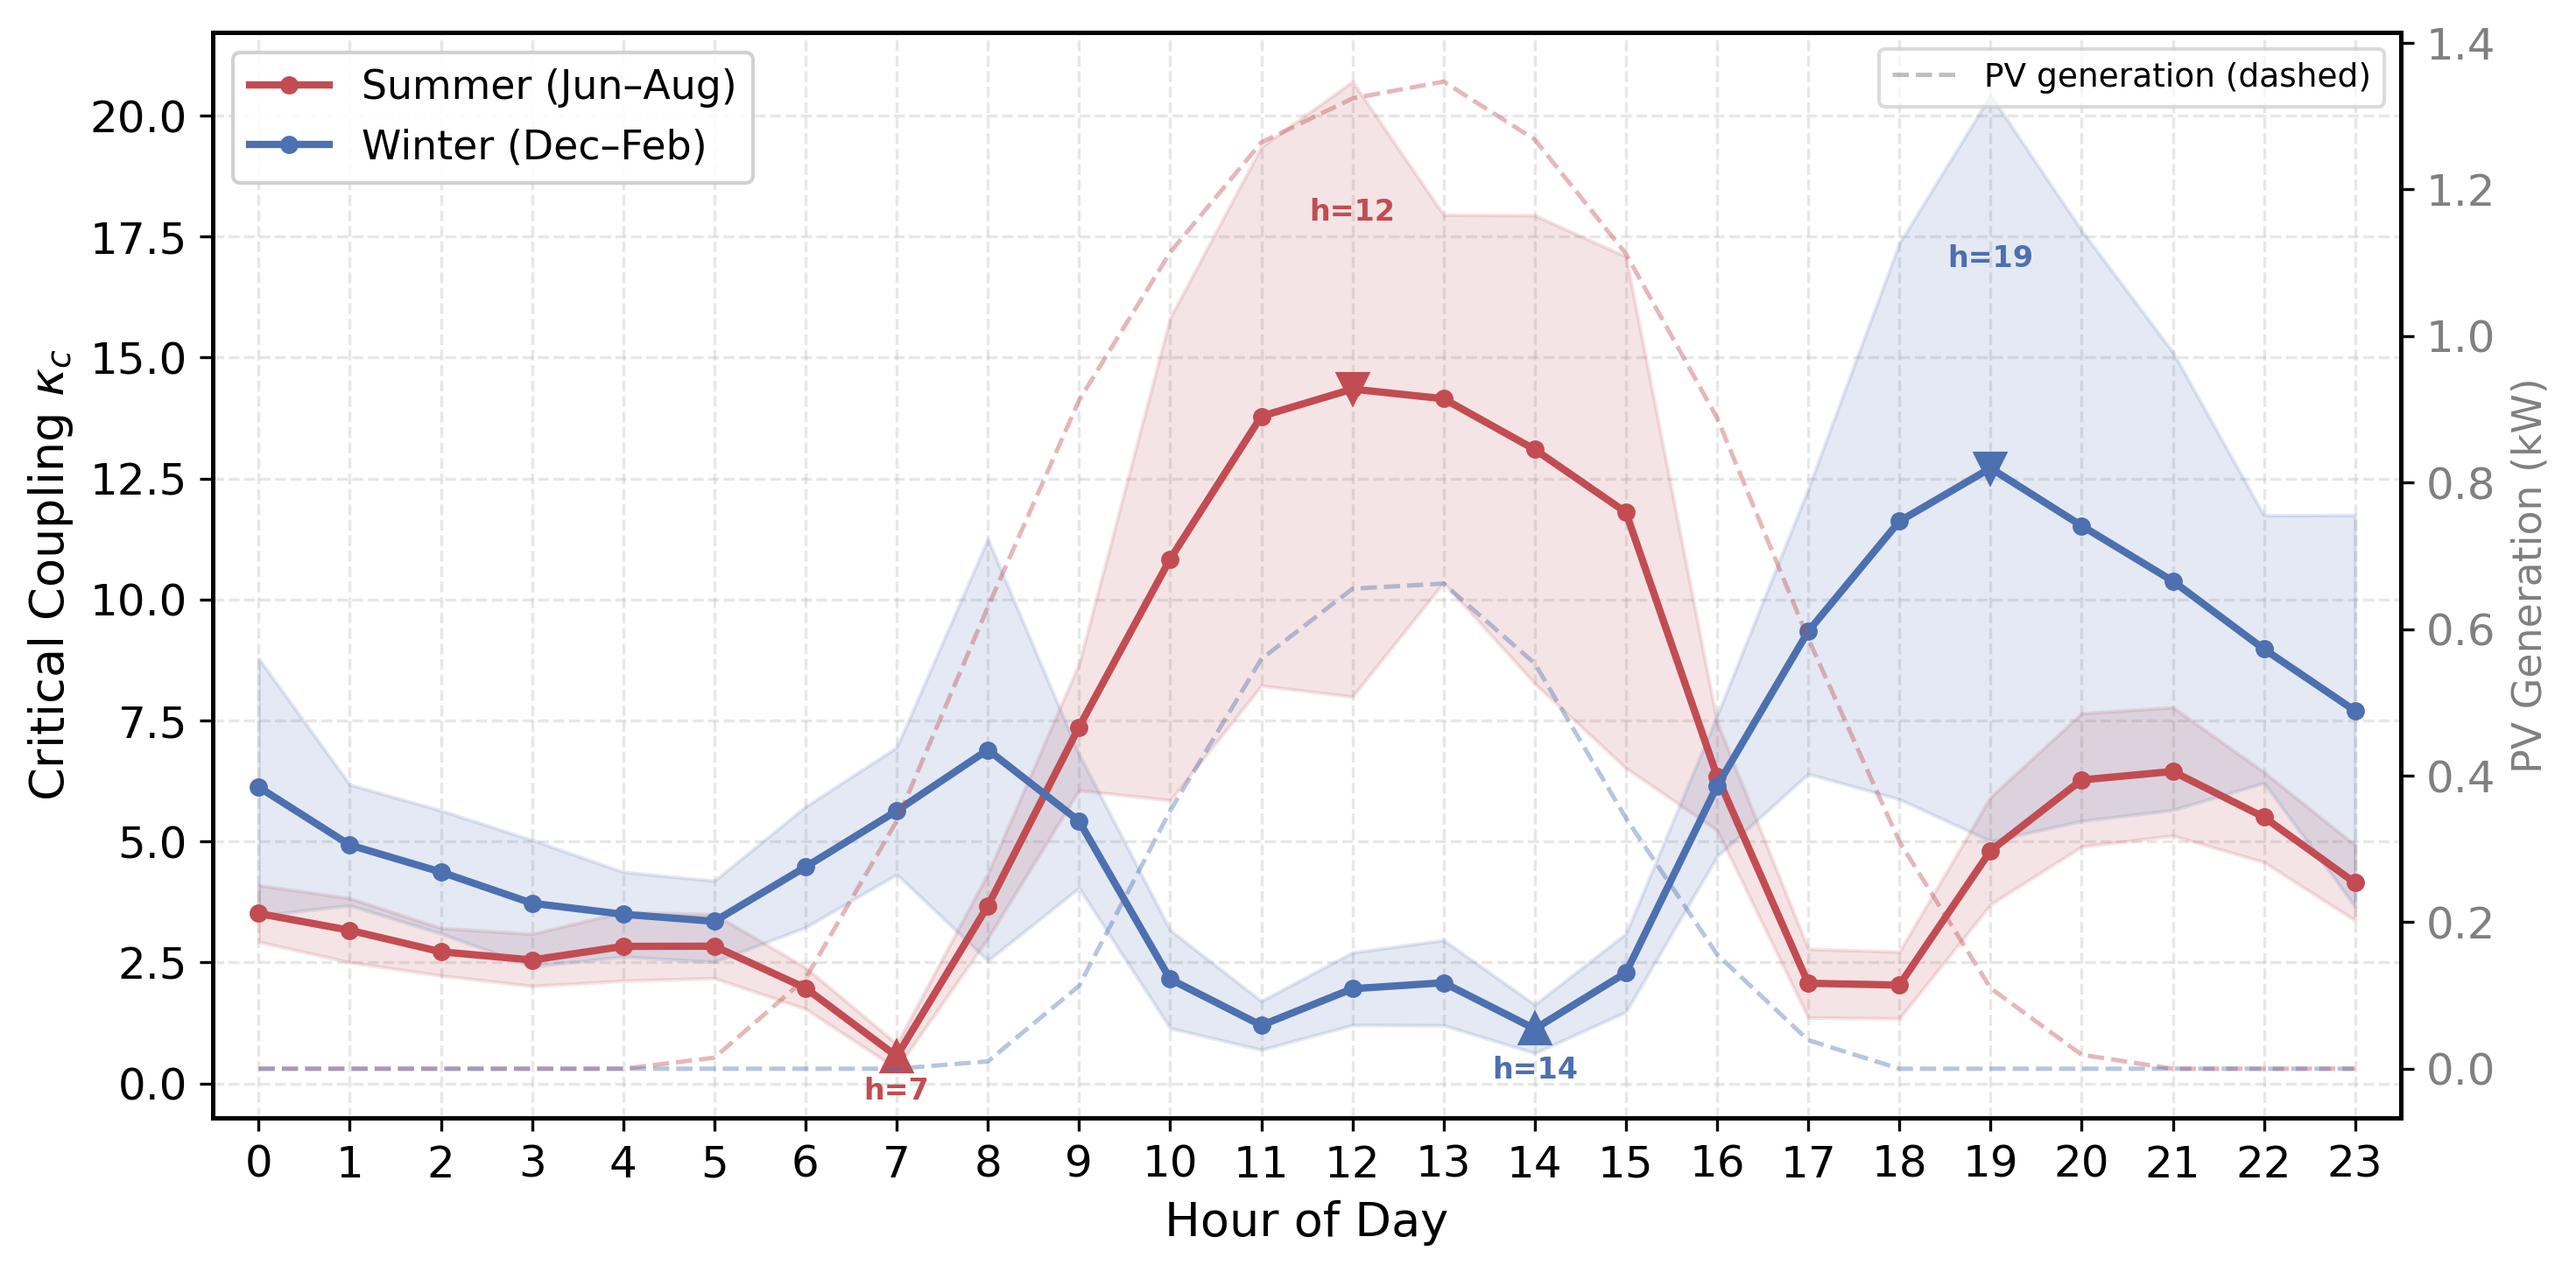
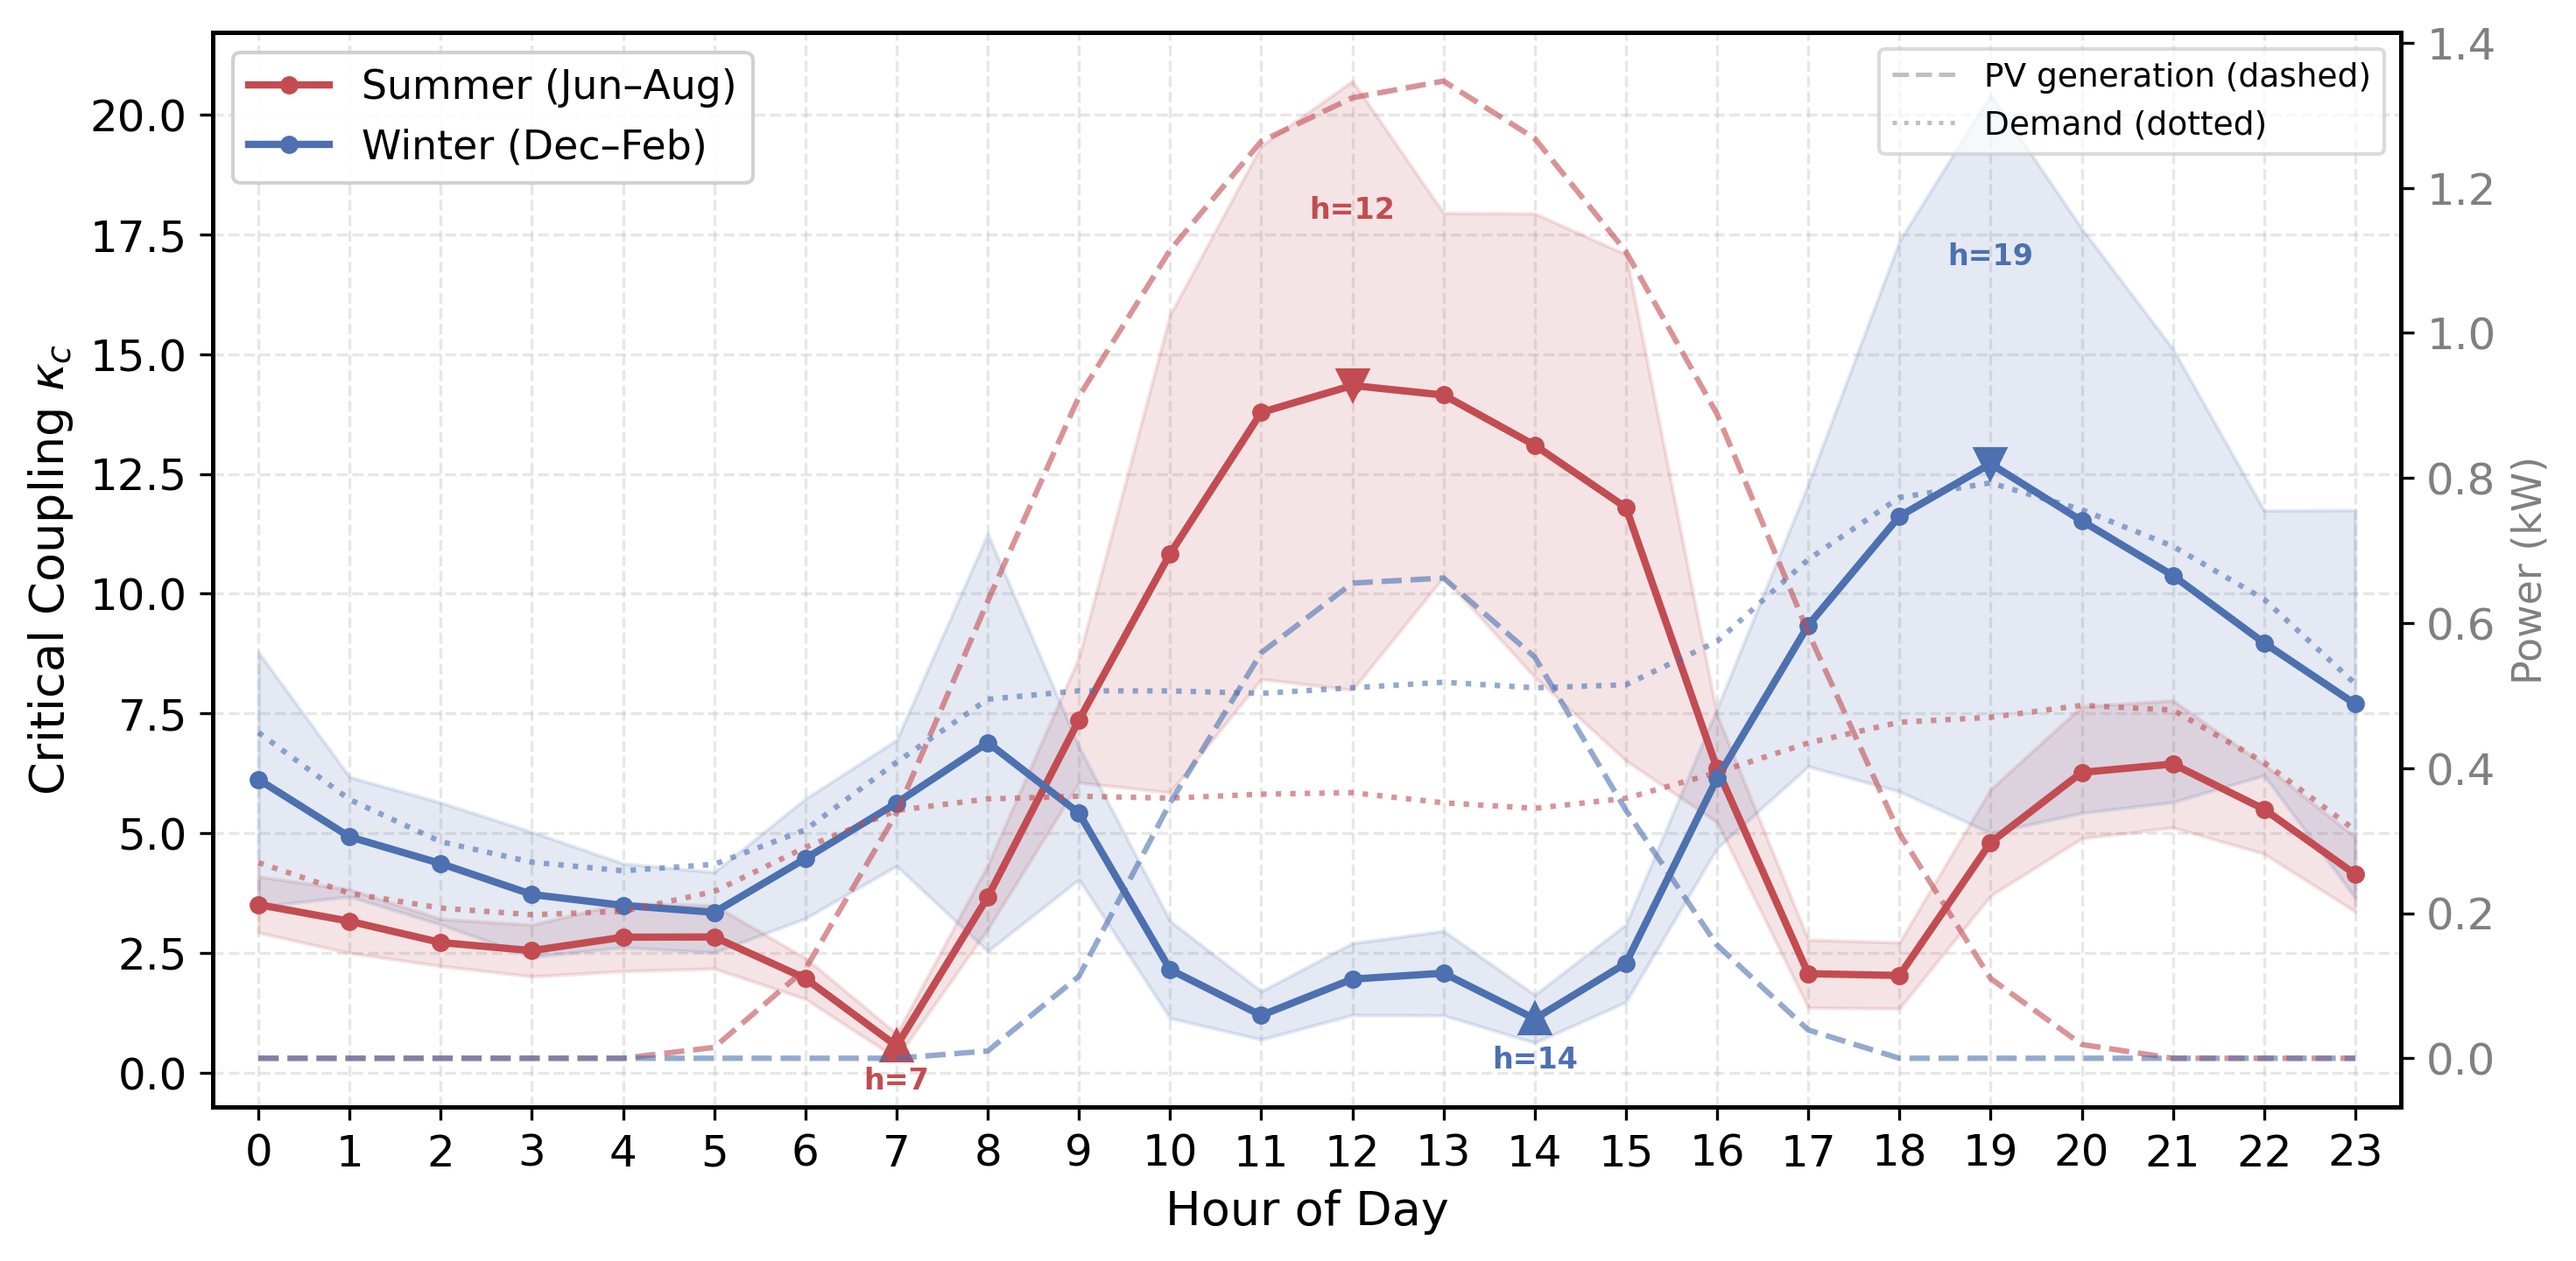
update

diff --git a/diurnal_stability/plot_kappa_diurnal.py b/diurnal_stability/plot_kappa_diurnal.py
@@ -18,7 +18,7 @@ from pathlib import Path
 sys.path.insert(0, str(Path(__file__).resolve().parent))
 
 from config import RESULTS_DIR, DPI
-from shared_diurnal_utils import load_pv_generation
+from shared_diurnal_utils import load_pv_generation, load_demand_profile
 
 
 def main():
@@ -30,6 +30,7 @@ def main():
 
     df = pd.read_csv(csv_path)
     pv = load_pv_generation()
+    demand = load_demand_profile()
 
     # --- 设置绘图风格 ---
     plt.rcParams.update({
@@ -80,20 +81,23 @@ def main():
     ax1.grid(True, alpha=0.3, linestyle="--")
     ax1.legend(loc="upper left", fontsize=11, framealpha=0.9)
 
-    # --- 次 y 轴: PV 发电曲线 ---
+    # --- 次 y 轴: PV 发电 + 用电曲线 ---
     ax2 = ax1.twinx()
     for season in ["summer", "winter"]:
         ax2.plot(hours, pv[season], color=colors[season],
-                 linewidth=1.2, linestyle="--", alpha=0.4)
-    ax2.set_ylabel("PV Generation (kW)", fontsize=11, color="gray")
+                 linewidth=1.5, linestyle="--", alpha=0.6)
+        ax2.plot(hours, demand[season], color=colors[season],
+                 linewidth=1.5, linestyle=":", alpha=0.6)
+    ax2.set_ylabel("Power (kW)", fontsize=11, color="gray")
     ax2.tick_params(axis="y", labelcolor="gray")
 
-    # PV 图例（手动添加到次轴）
+    # PV + Demand 图例（手动添加到次轴）
     from matplotlib.lines import Line2D
-    pv_handles = [
+    ref_handles = [
         Line2D([0], [0], color="gray", linewidth=1.2, linestyle="--", alpha=0.5),
+        Line2D([0], [0], color="gray", linewidth=1.2, linestyle=":", alpha=0.5),
     ]
-    ax2.legend(pv_handles, ["PV generation (dashed)"],
+    ax2.legend(ref_handles, ["PV generation (dashed)", "Demand (dotted)"],
                loc="upper right", fontsize=9, framealpha=0.7)
 
     fig.tight_layout()

diff --git a/diurnal_stability/shared_diurnal_utils.py b/diurnal_stability/shared_diurnal_utils.py
@@ -40,6 +40,22 @@ def load_pv_generation() -> dict[str, np.ndarray]:
     }
 
 
+def load_demand_profile() -> dict[str, np.ndarray]:
+    """从缓存 parquet 加载各季节 24h 平均家庭用电曲线。
+
+    Returns
+    -------
+    dict  {"summer": ndarray(24,), "winter": ndarray(24,)}  单位: kW
+    """
+    result = {}
+    for season in SEASONS:
+        cache_path = CACHE_DIR / f"household_demand_{season}.parquet"
+        df = pd.read_parquet(cache_path)
+        hourly_mean = df.groupby("hour")["demand_kw"].mean().sort_index().values
+        result[season] = hourly_mean.astype(float)
+    return result
+
+
 # ====================================================================
 # 2. 家庭用电加载 (从 parquet，带缓存)
 # ====================================================================
